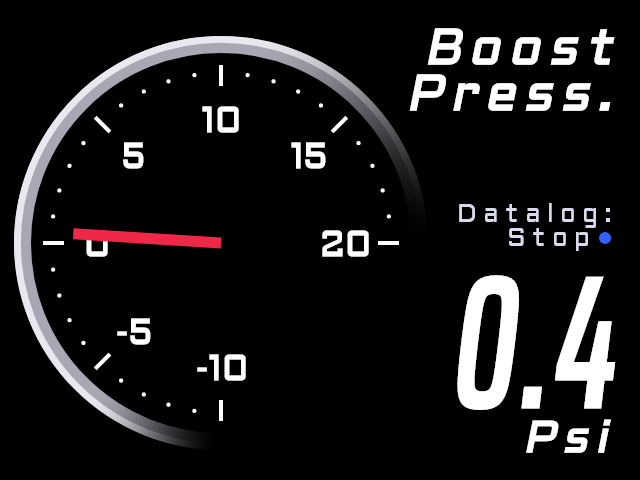
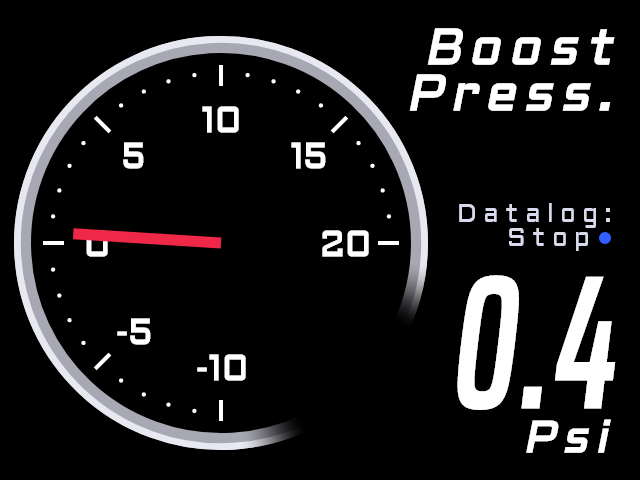
Dial gauge: extend the bezel past the end ticks with a shorter fade
The bezel now runs 25° beyond the first and last ticks and fades out over
the final 20° at each end, so it stays at full brightness across the
whole scale.

Claude-Session: https://claude.ai/code/session_01Cc5hXeQP9zRacHJh2wdLGj

Changed region(s): [[0.4688, 0.125, 0.6875, 0.6562], [0.1562, 0.8438, 0.4688, 0.9375]]

diff --git a/src/GaugeDotnet/Gauges/DialGauge.cs b/src/GaugeDotnet/Gauges/DialGauge.cs
@@ -25,8 +25,10 @@ namespace GaugeDotnet.Gauges
         private const float CENTER_Y = 243f;
         private const float BEZEL_RADIUS = 207f;
         private const float BEZEL_WIDTH = 17f;
-        private const float BEZEL_FADE_START = 0.15f;
-        private const float BEZEL_FADE_END = 0.3f;
+        private const float BEZEL_OVERHANG_DEG = 25f;
+        private const float BEZEL_FADE_DEG = 20f;
+        private const float BEZEL_START_DEG = START_ANGLE_DEG - BEZEL_OVERHANG_DEG;
+        private const float BEZEL_SWEEP_DEG = SWEEP_DEG + 2f * BEZEL_OVERHANG_DEG;
         private const float START_ANGLE_DEG = 90f;
         private const float SWEEP_DEG = 270f;
         private const int MAJOR_COUNT = 6;
@@ -81,20 +83,23 @@ namespace GaugeDotnet.Gauges
             return t * t * (3f - 2f * t);
         }
 
-        /// <summary>Bezel opacity at a point: full along the scale, fading out towards both ends.</summary>
+        /// <summary>
+        /// Bezel opacity at a point: full along the scale, fading out over <see cref="BEZEL_FADE_DEG"/>
+        /// at both ends of the bezel, which runs <see cref="BEZEL_OVERHANG_DEG"/> past the end ticks.
+        /// </summary>
         private static float BezelFade(float x, float y)
         {
             float deg = MathF.Atan2(y - CENTER_Y, x - CENTER_X) * 180f / MathF.PI;
-            float u = (((deg - START_ANGLE_DEG) % 360f) + 360f) % 360f / SWEEP_DEG;
-            if (u > 1f)
+            float d = (((deg - BEZEL_START_DEG) % 360f) + 360f) % 360f;
+            if (d > BEZEL_SWEEP_DEG)
             {
                 return 0f;
             }
-            return SmoothStep(u / BEZEL_FADE_START) * SmoothStep((1f - u) / BEZEL_FADE_END);
+            return SmoothStep(d / BEZEL_FADE_DEG) * SmoothStep((BEZEL_SWEEP_DEG - d) / BEZEL_FADE_DEG);
         }
 
         /// <summary>
-        /// Grey ring with a lighter outer rim along the scale. It is drawn into its own
+        /// Grey ring with a lighter outer rim along the scale and a little past it. It is drawn into its own
         /// layer whose alpha is then scaled per pixel by <see cref="BezelFade"/>.
         /// </summary>
         private void DrawBezel(SKCanvas target, int width, int height)
@@ -107,12 +112,12 @@ namespace GaugeDotnet.Gauges
                 _strokePaint.Color = BezelColor;
                 _strokePaint.StrokeWidth = BEZEL_WIDTH;
                 canvas.DrawArc(new SKRect(CENTER_X - bodyR, CENTER_Y - bodyR, CENTER_X + bodyR, CENTER_Y + bodyR),
-                    START_ANGLE_DEG, SWEEP_DEG, false, _strokePaint);
+                    BEZEL_START_DEG, BEZEL_SWEEP_DEG, false, _strokePaint);
                 float rimR = BEZEL_RADIUS - BEZEL_WIDTH * 0.2f;
                 _strokePaint.Color = BezelHighlight;
                 _strokePaint.StrokeWidth = BEZEL_WIDTH * 0.4f;
                 canvas.DrawArc(new SKRect(CENTER_X - rimR, CENTER_Y - rimR, CENTER_X + rimR, CENTER_Y + rimR),
-                    START_ANGLE_DEG, SWEEP_DEG, false, _strokePaint);
+                    BEZEL_START_DEG, BEZEL_SWEEP_DEG, false, _strokePaint);
             }
 
             Span<byte> pixels = layer.GetPixelSpan();

diff --git a/rust/gauge-render/src/gauges/dial.rs b/rust/gauge-render/src/gauges/dial.rs
@@ -12,8 +12,10 @@ const CENTER_X: f32 = 221.0;
 const CENTER_Y: f32 = 243.0;
 const BEZEL_RADIUS: f32 = 207.0;
 const BEZEL_WIDTH: f32 = 17.0;
-const BEZEL_FADE_START: f32 = 0.15;
-const BEZEL_FADE_END: f32 = 0.3;
+const BEZEL_OVERHANG_DEG: f32 = 25.0;
+const BEZEL_FADE_DEG: f32 = 20.0;
+const BEZEL_START_DEG: f32 = START_ANGLE_DEG - BEZEL_OVERHANG_DEG;
+const BEZEL_SWEEP_DEG: f32 = SWEEP_DEG + 2.0 * BEZEL_OVERHANG_DEG;
 const START_ANGLE_DEG: f32 = 90.0;
 const SWEEP_DEG: f32 = 270.0;
 const MAJOR_COUNT: usize = 6;
@@ -51,24 +53,26 @@ fn smooth_step(t: f32) -> f32 {
 	t * t * (3.0 - 2.0 * t)
 }
 
-/// Bezel opacity at a point: full along the scale, fading out towards both ends.
+/// Bezel opacity at a point: full along the scale, fading out over
+/// `BEZEL_FADE_DEG` at both ends of the bezel, which runs
+/// `BEZEL_OVERHANG_DEG` past the end ticks.
 fn bezel_fade(x: f32, y: f32) -> f32 {
 	let deg = (y - CENTER_Y).atan2(x - CENTER_X).to_degrees();
-	let u = (deg - START_ANGLE_DEG).rem_euclid(360.0) / SWEEP_DEG;
-	if u > 1.0 {
+	let d = (deg - BEZEL_START_DEG).rem_euclid(360.0);
+	if d > BEZEL_SWEEP_DEG {
 		return 0.0;
 	}
-	smooth_step(u / BEZEL_FADE_START) * smooth_step((1.0 - u) / BEZEL_FADE_END)
+	smooth_step(d / BEZEL_FADE_DEG) * smooth_step((BEZEL_SWEEP_DEG - d) / BEZEL_FADE_DEG)
 }
 
-/// Grey ring with a lighter outer rim along the scale. It is drawn into its
+/// Grey ring with a lighter outer rim along the scale and a little past it. It is drawn into its
 /// own layer whose alpha is then scaled per pixel by [`bezel_fade`].
 fn draw_bezel(target: &mut Canvas) {
 	let (width, height) = (target.width(), target.height());
 	let mut layer = Canvas::new(width, height);
 	let arc = |c: &mut Canvas, r: f32, stroke: f32, color: Rgba| {
 		if let Some(oval) = rect(CENTER_X - r, CENTER_Y - r, CENTER_X + r, CENTER_Y + r) {
-			c.draw_arc(oval, START_ANGLE_DEG, SWEEP_DEG, &Paint::stroke(color, stroke));
+			c.draw_arc(oval, BEZEL_START_DEG, BEZEL_SWEEP_DEG, &Paint::stroke(color, stroke));
 		}
 	};
 	arc(&mut layer, BEZEL_RADIUS - BEZEL_WIDTH / 2.0, BEZEL_WIDTH, BEZEL_COLOR);
